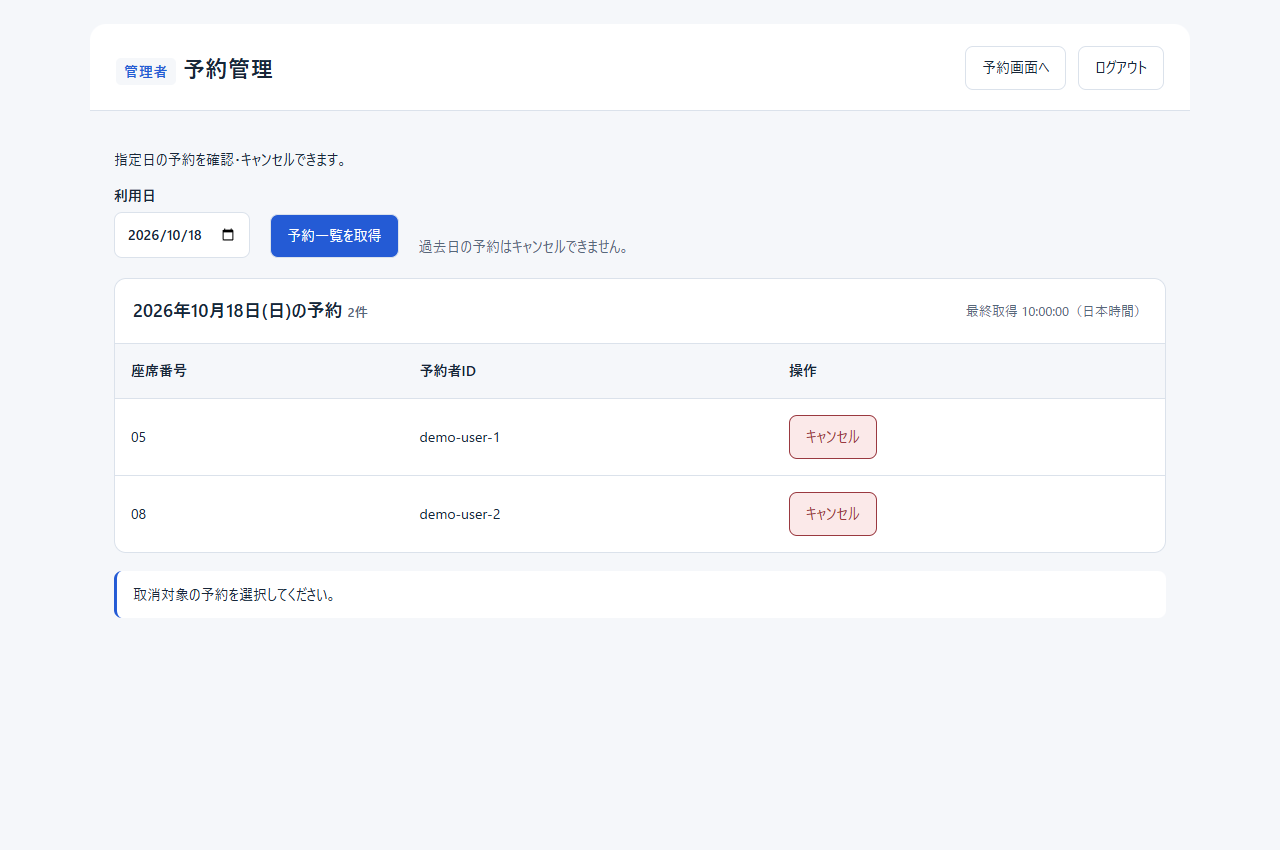
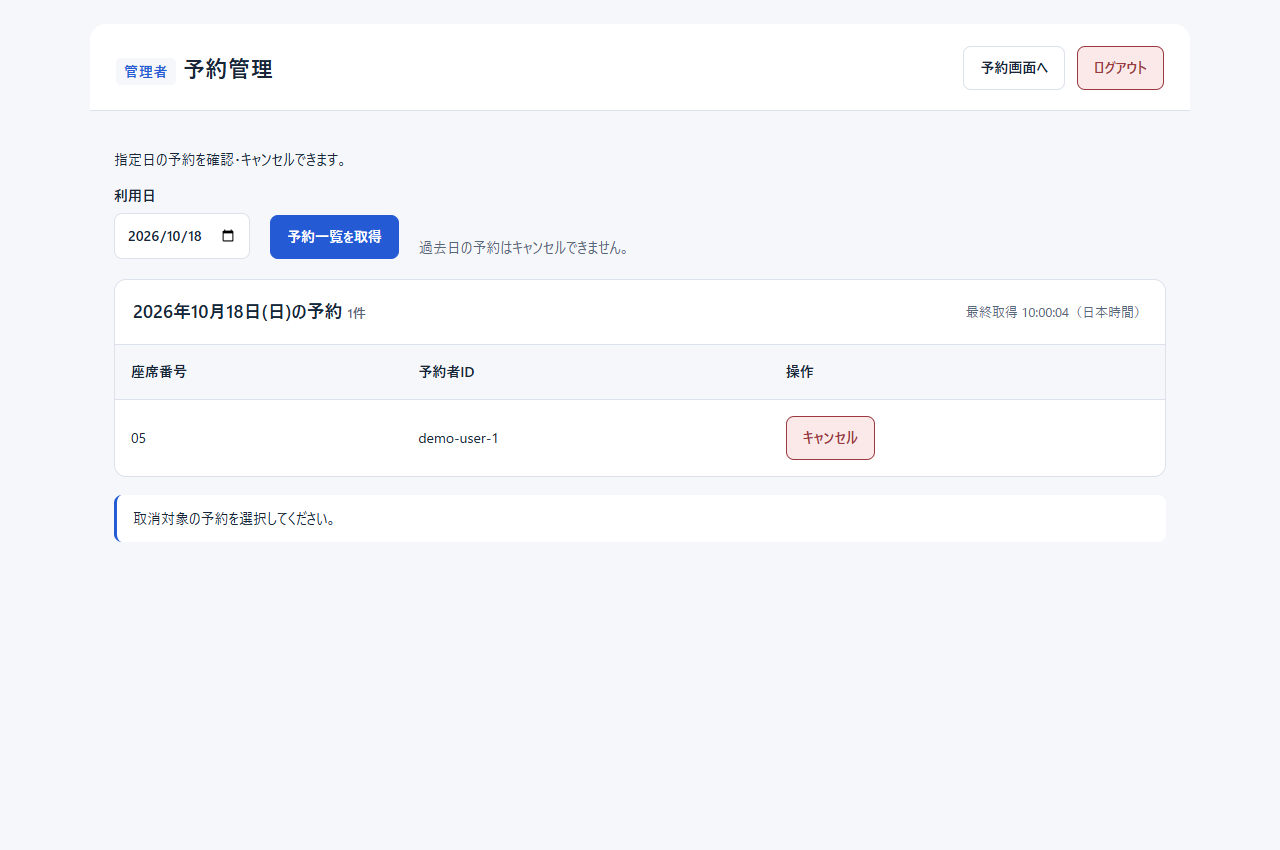
Refactor: 画面レイアウトを統一

diff --git a/frontend/src/styles.css b/frontend/src/styles.css
@@ -1,5 +1,6 @@
 :root {
   color-scheme: light dark;
+  --disabled-opacity: 0.5;
   --s-bg: light-dark(#f5f7fa, #171c25);
   --s-panel: light-dark(#fff, #202734);
   --s-text: light-dark(#182638, #edf2f8);
@@ -77,7 +78,7 @@ main {
   gap: 20px;
   min-width: 0;
 }
-.filter-fields label {
+.date-field {
   display: grid;
   gap: 7px;
   font-weight: 600;
@@ -215,25 +216,59 @@ h2 {
   font-weight: 650;
   margin: 4px 0;
 }
+.button {
+  min-height: 44px;
+  padding: 8px 16px;
+  border: 1px solid var(--button-border);
+  border-radius: 8px;
+  color: var(--button-text);
+  background: var(--button-bg);
+  font-weight: 600;
+}
+.button-secondary {
+  --button-bg: var(--s-panel);
+  --button-text: var(--s-text);
+  --button-border: var(--s-line);
+  --button-shade: var(--s-text);
+}
+.button-primary {
+  --button-bg: var(--s-blue);
+  --button-text: var(--s-onblue);
+  --button-border: var(--s-blue);
+  --button-shade: light-dark(#000, #fff);
+}
+.button-danger {
+  --button-bg: var(--s-red);
+  --button-text: var(--s-red-text);
+  --button-border: var(--s-red-text);
+  --button-shade: var(--s-red-text);
+}
+@media (hover: hover) {
+  .button:enabled:hover {
+    background: color-mix(in srgb, var(--button-bg), var(--button-shade) 8%);
+    border-color: color-mix(
+      in srgb,
+      var(--button-border),
+      var(--button-shade) 20%
+    );
+  }
+}
+.button:enabled:active {
+  background: color-mix(in srgb, var(--button-bg), var(--button-shade) 14%);
+  border-color: color-mix(
+    in srgb,
+    var(--button-border),
+    var(--button-shade) 30%
+  );
+}
+.button:disabled {
+  opacity: var(--disabled-opacity);
+}
 .action {
   display: block;
   width: 100%;
-  min-height: 44px;
-  border-radius: 8px;
   padding: 10px;
-  font-weight: 600;
-  border: 1px solid var(--s-line);
-  color: var(--s-text);
-  background: var(--s-panel);
   margin-top: 10px;
-}
-.primary {
-  background: var(--s-blue);
-  color: var(--s-onblue);
-  border-color: var(--s-blue);
-}
-.action:disabled {
-  opacity: 0.4;
 }
 .message {
   margin-top: 18px;
@@ -252,14 +287,6 @@ h2 {
   justify-content: space-between;
   gap: 12px;
   flex-wrap: wrap;
-}
-.retry {
-  border: 1px solid var(--s-line);
-  border-radius: 8px;
-  padding: 8px 16px;
-  min-height: 44px;
-  color: var(--s-text);
-  background: var(--s-panel);
 }
 .empty-state {
   color: var(--s-muted);
@@ -300,7 +327,7 @@ h2 {
     gap: 12px;
   }
   .filter-fields,
-  .filter-fields label {
+  .date-field {
     width: 100%;
   }
   .sync {
@@ -338,6 +365,11 @@ h2 {
 .login-card p {
   line-height: 1.8;
 }
+.login-help {
+  color: var(--s-muted);
+  font-size: 12px;
+  overflow-wrap: anywhere;
+}
 .login-card button {
   width: 100%;
   min-height: 44px;
@@ -350,32 +382,14 @@ h2 {
   gap: 16px;
 }
 
+.header-actions,
 .admin-actions {
   display: flex;
   gap: 12px;
   flex-wrap: wrap;
 }
-.admin-actions button,
-.admin-filters button,
-.admin-list button {
-  min-height: 44px;
-  padding: 8px 16px;
-  border: 1px solid var(--s-line);
-  border-radius: 8px;
-  background: var(--s-panel);
-  color: var(--s-text);
-}
-.admin-filters label {
-  display: grid;
-  gap: 6px;
-  font-weight: 600;
-}
 .admin-filters span {
   color: var(--s-muted);
-}
-.admin-filters .admin-primary {
-  background: var(--s-blue);
-  color: var(--s-onblue);
 }
 .admin-list {
   border: 1px solid var(--s-line);
@@ -421,18 +435,6 @@ h2 {
 }
 .admin-user-id {
   overflow-wrap: anywhere;
-}
-.admin-list .admin-danger,
-.admin-actions .admin-danger {
-  color: var(--s-red-text);
-  border-color: var(--s-red-text);
-  background: var(--s-red);
-}
-.admin-list button:disabled,
-.admin-actions button:disabled,
-.admin-filters button:disabled {
-  opacity: 0.5;
-  cursor: not-allowed;
 }
 .admin-badge {
   background: var(--s-bg);

diff --git a/frontend/src/pages/SeatReservationPage.tsx b/frontend/src/pages/SeatReservationPage.tsx
@@ -32,14 +32,24 @@ export function SeatReservationPage({
     <div className="reservation-app">
       <header className="app-header">
         <h1>座席予約</h1>
-        {onAdmin && (
-          <button type="button" onClick={onAdmin}>
-            予約管理へ
+        <div className="header-actions">
+          {onAdmin && (
+            <button
+              className="button button-secondary"
+              type="button"
+              onClick={onAdmin}
+            >
+              予約管理へ
+            </button>
+          )}
+          <button
+            className="button button-danger"
+            type="button"
+            onClick={onLogout}
+          >
+            ログアウト
           </button>
-        )}
-        <button type="button" onClick={onLogout}>
-          ログアウト
-        </button>
+        </div>
       </header>
       <main>
         <div className="filters">

diff --git a/frontend/src/pages/LoginPage.tsx b/frontend/src/pages/LoginPage.tsx
@@ -12,9 +12,18 @@ export function LoginPage({ message, busy = false, onLogin }: Props) {
         <p>ログインして、利用する日付と座席を選択してください。</p>
         {message && <p role="alert">{message}</p>}
         {busy && <p role="status">ログインを処理しています…</p>}
-        <button type="button" disabled={busy || !onLogin} onClick={onLogin}>
+        <button
+          className="button button-primary"
+          aria-describedby="login-help"
+          type="button"
+          disabled={busy || !onLogin}
+          onClick={onLogin}
+        >
           ログイン
         </button>
+        <p id="login-help" className="login-help">
+          Cognitoのログイン画面へ移動します。
+        </p>
       </section>
     </main>
   );

diff --git a/frontend/src/components/CancelReservationDialog.tsx b/frontend/src/components/CancelReservationDialog.tsx
@@ -45,10 +45,19 @@ export function CancelReservationDialog({
       </div>
       {busy && <p role="status">キャンセル中…</p>}
       <div className="admin-actions">
-        <button autoFocus disabled={busy} onClick={onClose}>
+        <button
+          className="button button-secondary"
+          autoFocus
+          disabled={busy}
+          onClick={onClose}
+        >
           戻る
         </button>
-        <button className="admin-danger" disabled={busy} onClick={onConfirm}>
+        <button
+          className="button button-danger"
+          disabled={busy}
+          onClick={onConfirm}
+        >
           予約をキャンセル
         </button>
       </div>

diff --git a/frontend/src/pages/AdminReservationPage.tsx b/frontend/src/pages/AdminReservationPage.tsx
@@ -22,9 +22,13 @@ export function AdminReservationPage({
         <h1>
           <small className="admin-badge">管理者</small> 予約管理
         </h1>
-        <div className="admin-actions">
-          <button onClick={onReservations}>予約画面へ</button>
-          <button onClick={onLogout}>ログアウト</button>
+        <div className="header-actions">
+          <button className="button button-secondary" onClick={onReservations}>
+            予約画面へ
+          </button>
+          <button className="button button-danger" onClick={onLogout}>
+            ログアウト
+          </button>
         </div>
       </header>
       <main>

diff --git a/frontend/src/components/ReservationActionPanel.tsx b/frontend/src/components/ReservationActionPanel.tsx
@@ -41,7 +41,7 @@ export function ReservationActionPanel({
       <div className="actions">
         <button
           type="button"
-          className="action primary"
+          className="button button-primary action"
           disabled={!enabled || seat?.status !== 'AVAILABLE'}
           onClick={onReserve}
         >
@@ -49,7 +49,7 @@ export function ReservationActionPanel({
         </button>
         <button
           type="button"
-          className="action"
+          className="button button-danger action"
           disabled={!enabled || seat?.status !== 'MINE'}
           onClick={onCancel}
         >

diff --git a/frontend/src/components/AdminReservationFilters.tsx b/frontend/src/components/AdminReservationFilters.tsx
@@ -21,7 +21,7 @@ export function AdminReservationFilters({
         onFetch();
       }}
     >
-      <label>
+      <label className="date-field">
         利用日
         <input
           type="date"
@@ -31,7 +31,7 @@ export function AdminReservationFilters({
         />
       </label>
       <button
-        className="admin-primary"
+        className="button button-primary"
         disabled={disabled || loading || !validDate(date)}
       >
         {loading ? '取得中…' : '予約一覧を取得'}

diff --git a/frontend/src/components/AdminReservationTable.tsx b/frontend/src/components/AdminReservationTable.tsx
@@ -53,7 +53,7 @@ export function AdminReservationTable({
                   <td className="admin-user-id">{row.userId}</td>
                   <td>
                     <button
-                      className="admin-danger"
+                      className="button button-danger"
                       disabled={disabled || loading || past}
                       aria-label={`座席${row.seatNumber}の予約をキャンセル`}
                       onClick={() => onCancel(row)}

diff --git a/frontend/src/components/ResultMessage.tsx b/frontend/src/components/ResultMessage.tsx
@@ -33,7 +33,7 @@ export function ResultMessage({
           <span>{fetchErrorText}</span>
           <button
             type="button"
-            className="retry"
+            className="button button-secondary"
             onClick={onRetry}
             disabled={loading}
           >

diff --git a/frontend/src/components/ReservationFilters.tsx b/frontend/src/components/ReservationFilters.tsx
@@ -7,7 +7,7 @@ interface Props {
 export function ReservationFilters({ date, disabled, onDateChange }: Props) {
   return (
     <div className="filter-fields">
-      <label>
+      <label className="date-field">
         利用日
         <input
           type="date"
